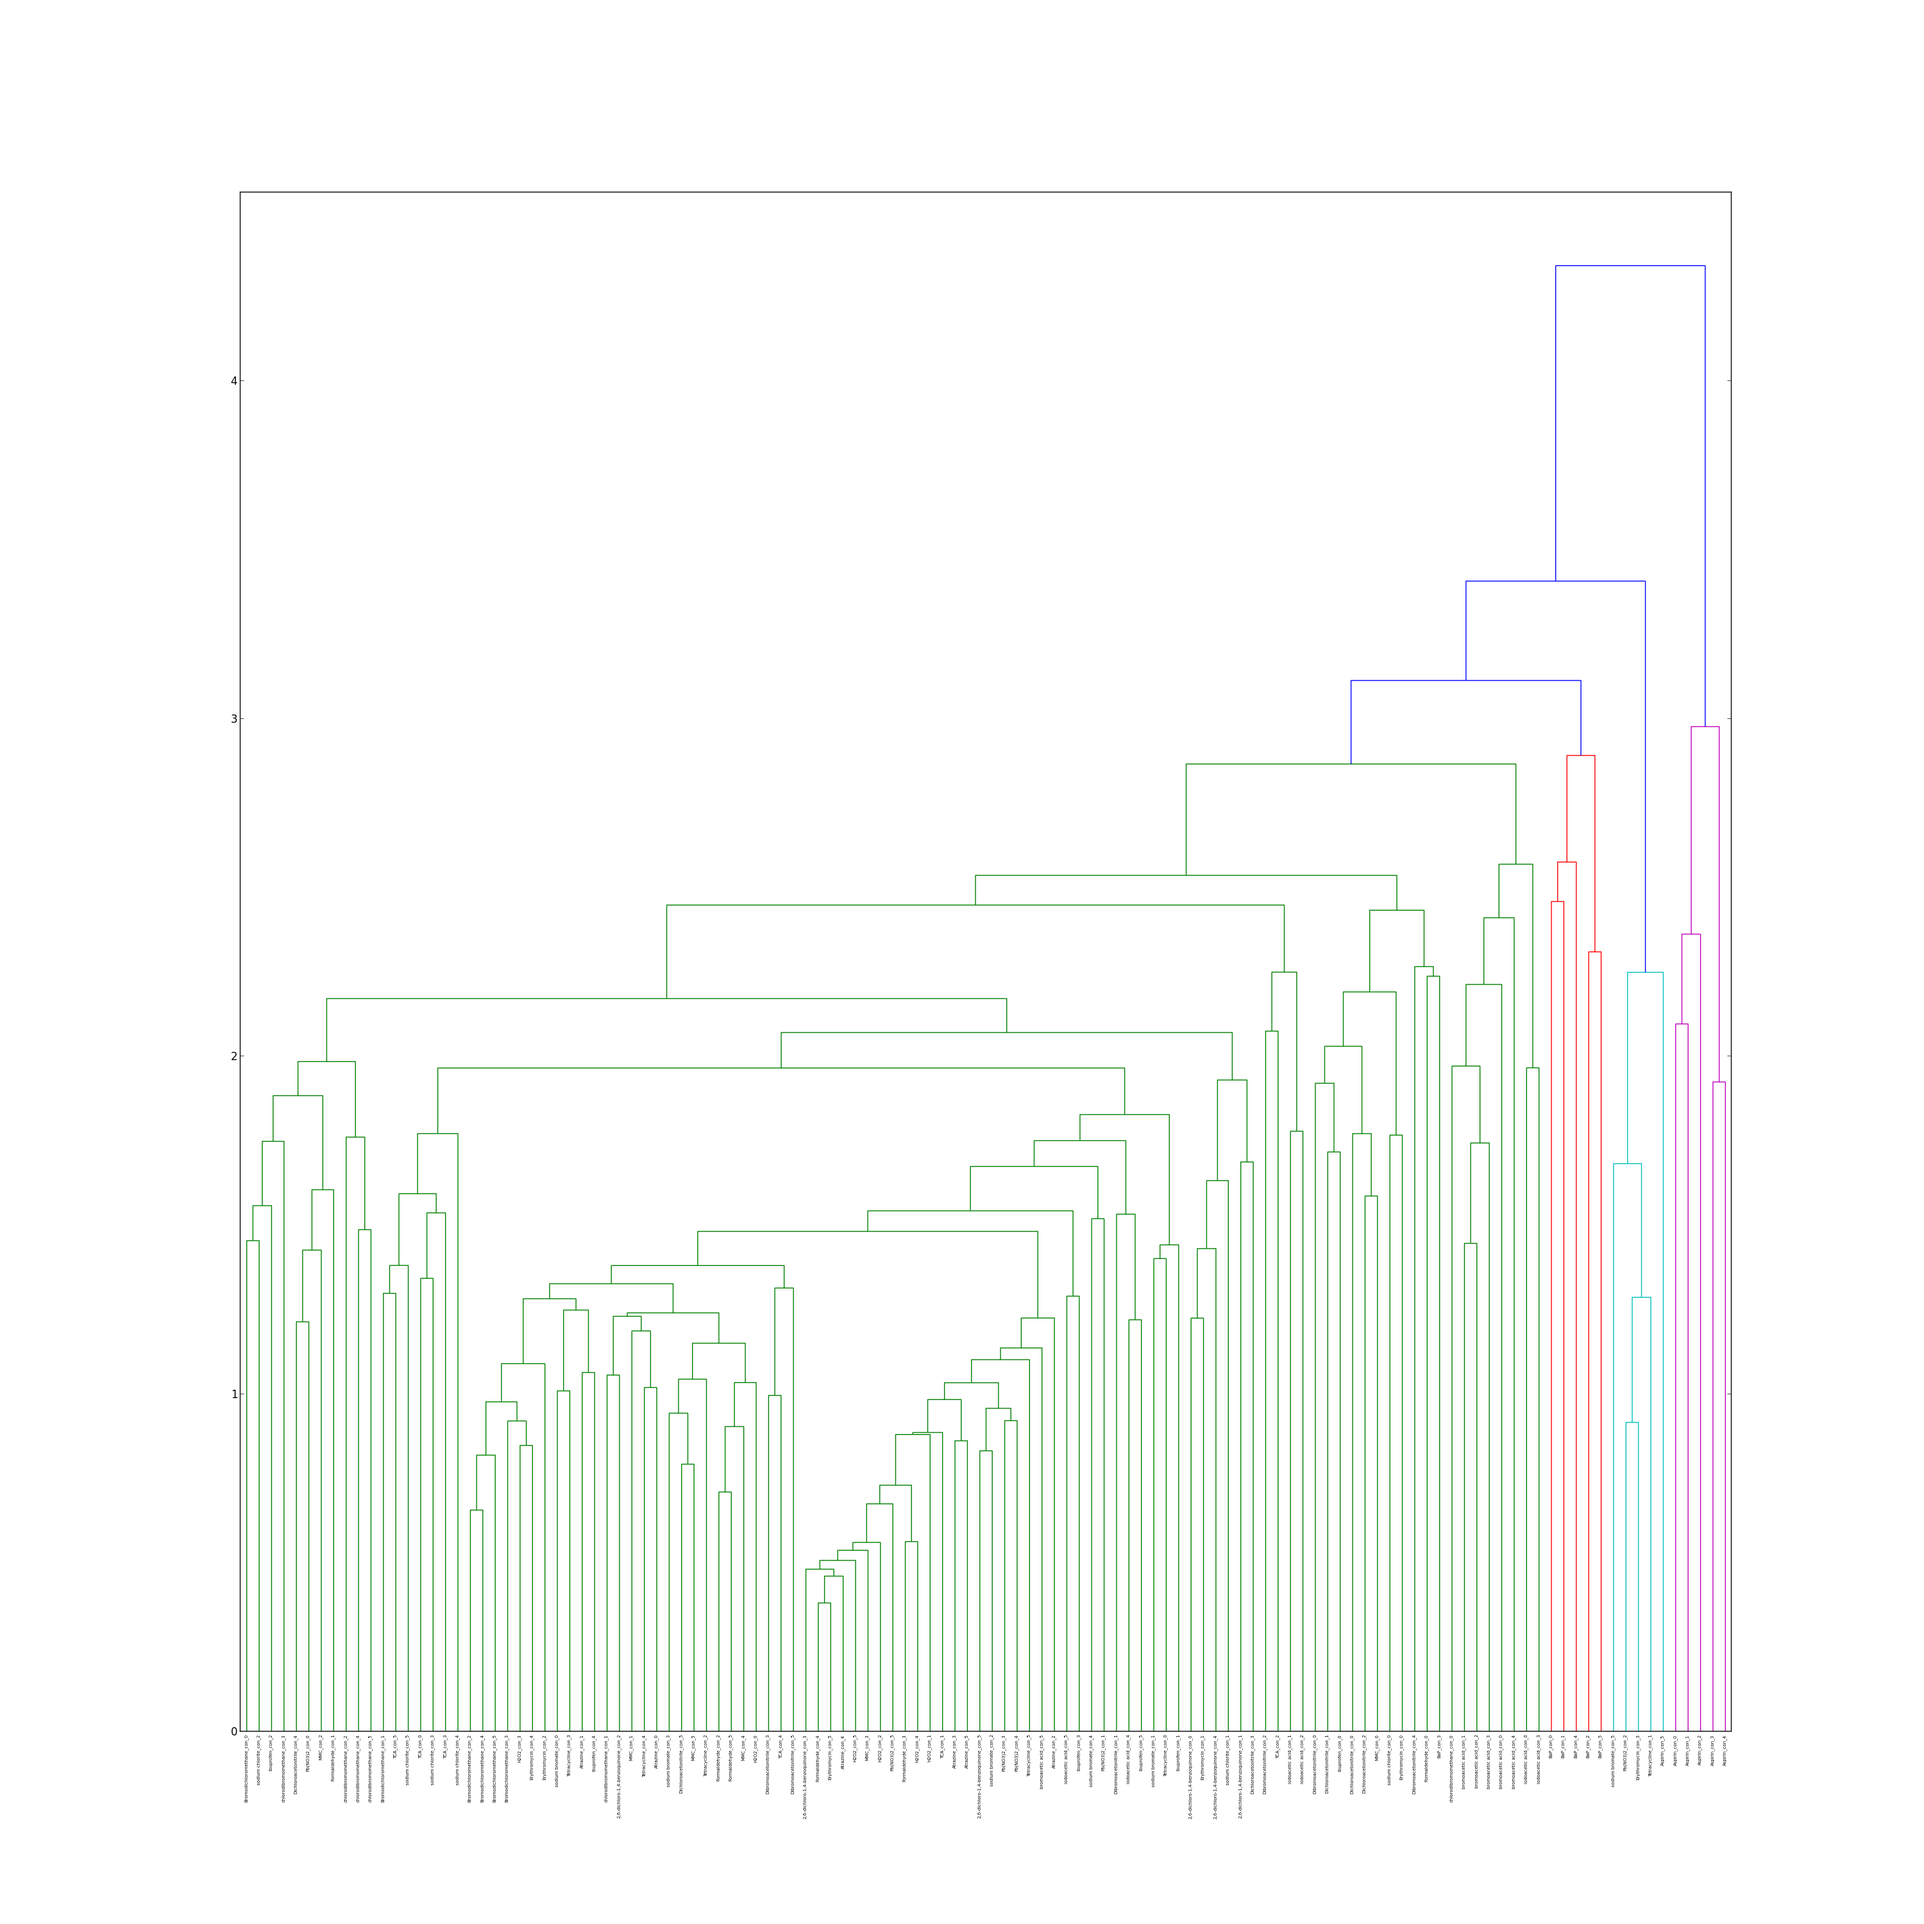
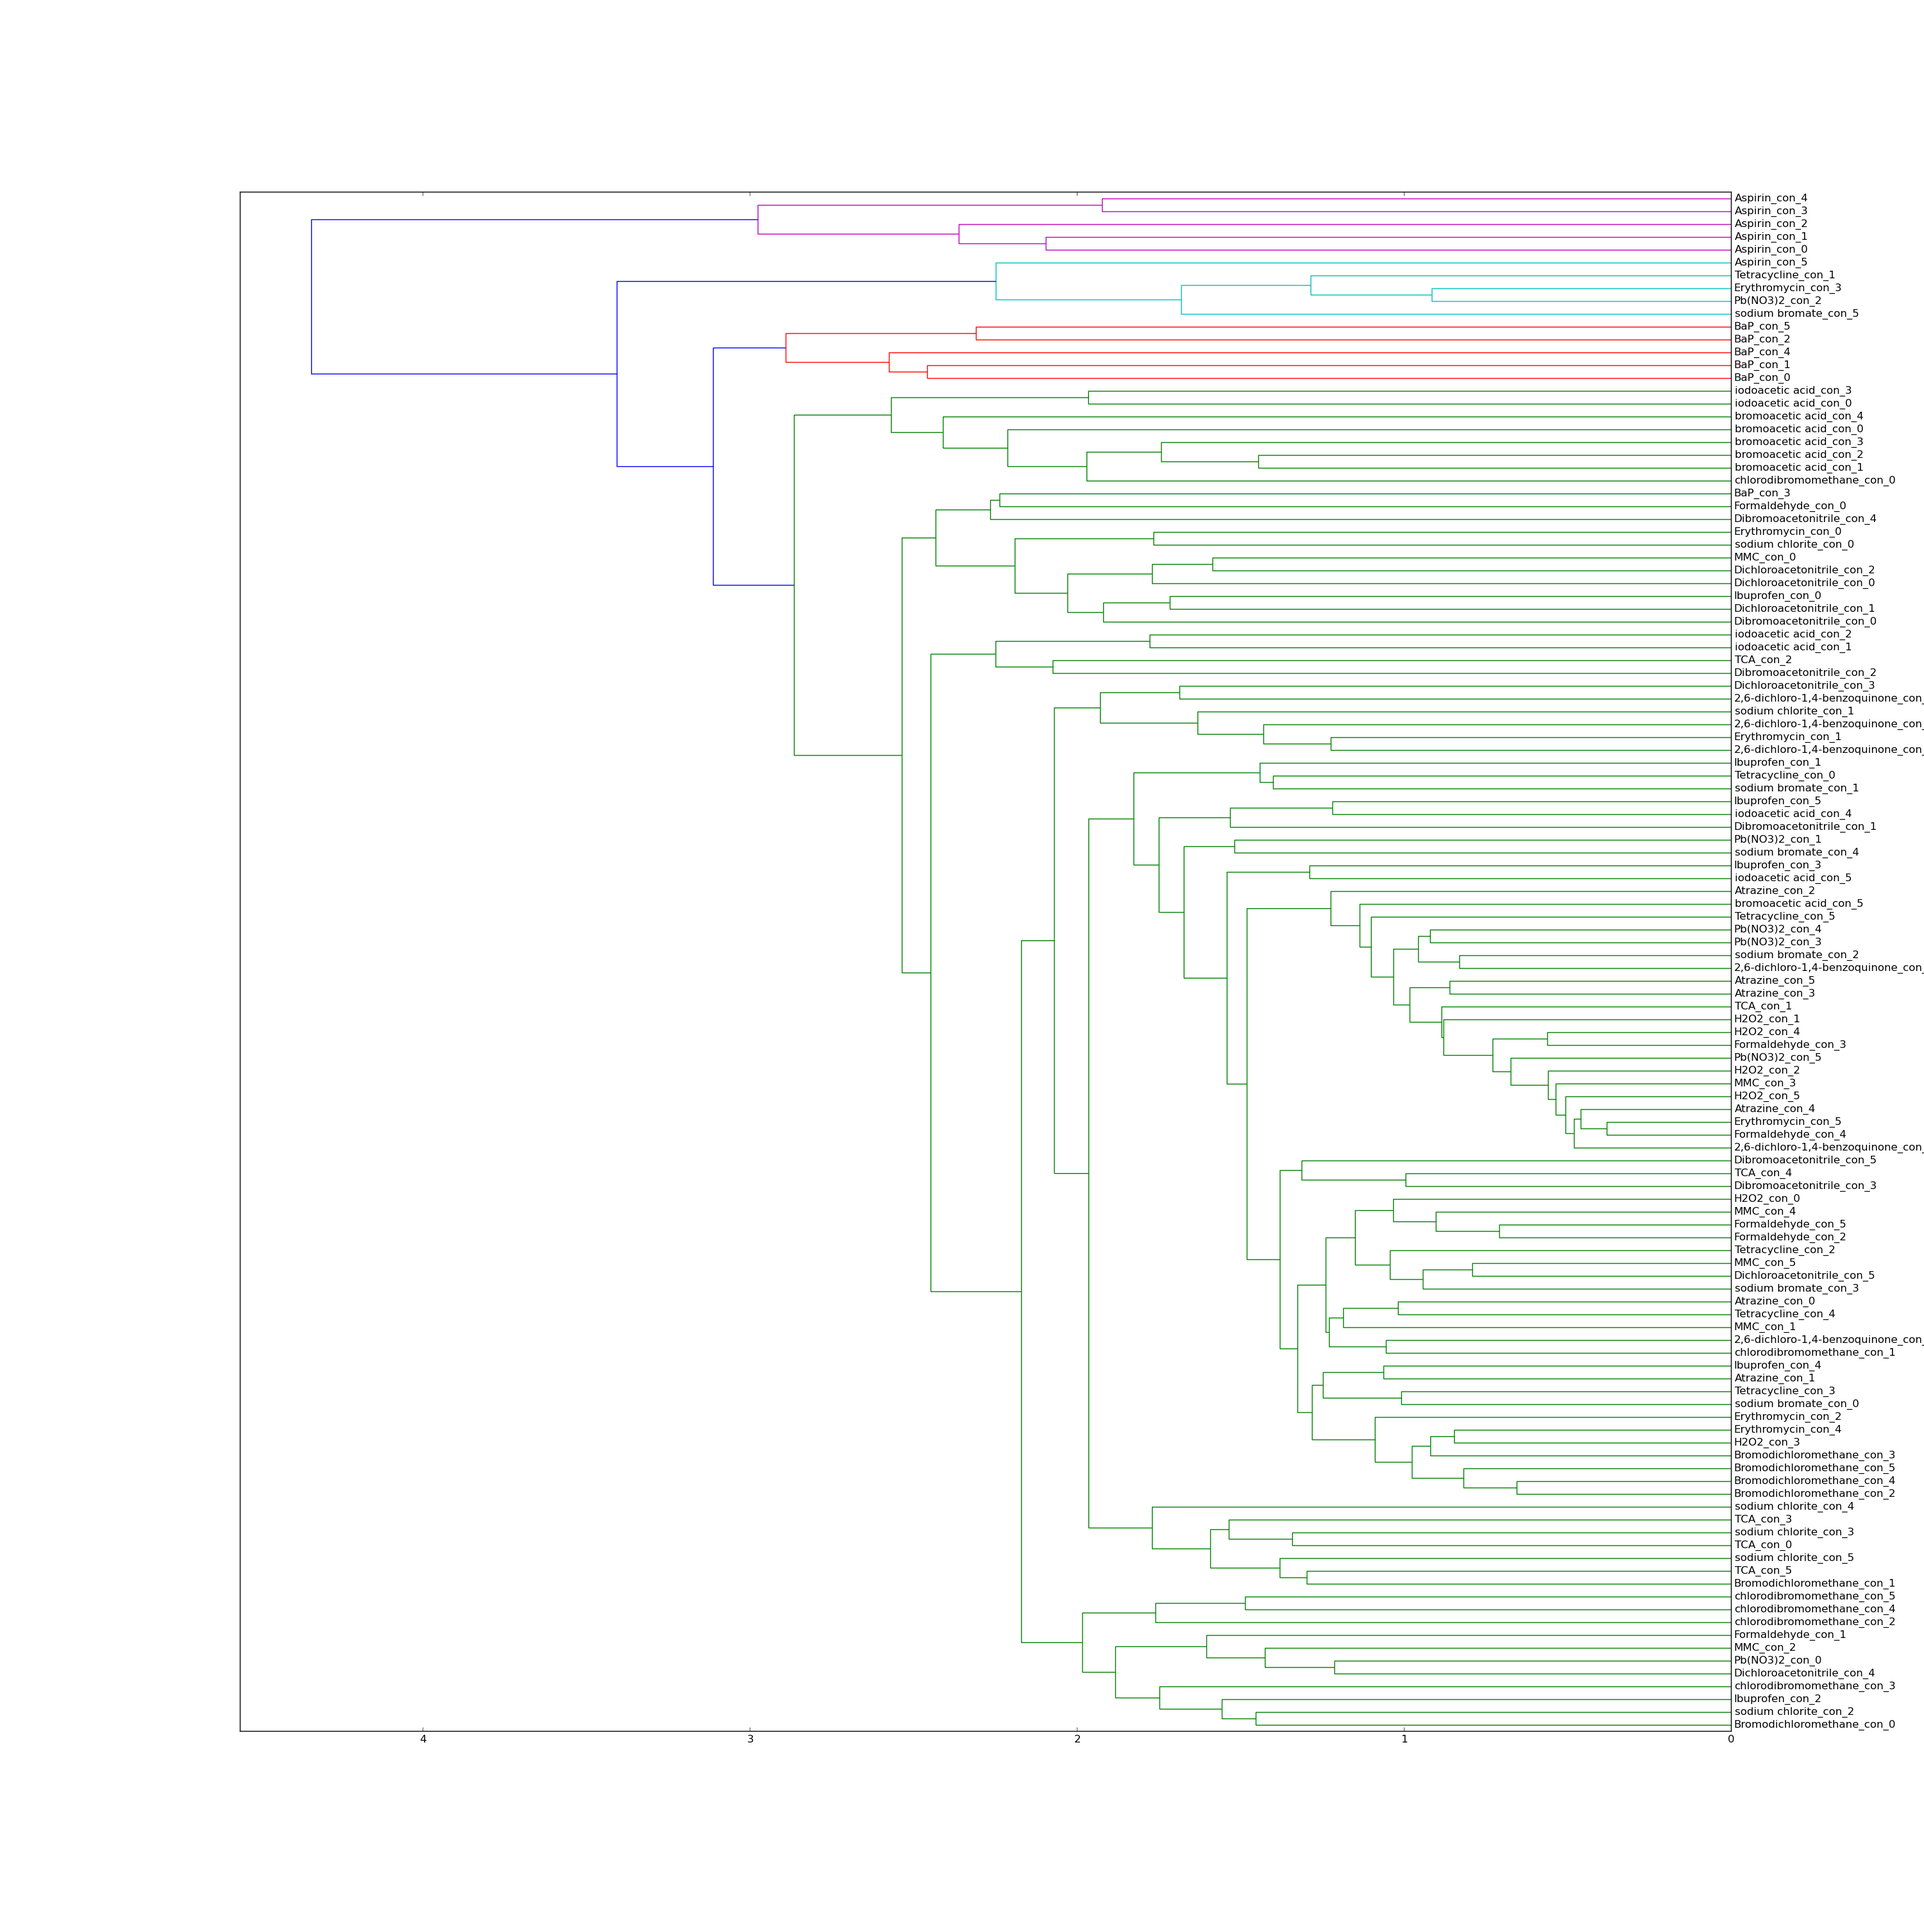
Change Orientation

diff --git a/main_hierarchical.py b/main_hierarchical.py
@@ -88,6 +88,6 @@ for i in range(n_conditions):
 tmp = copy.deepcopy(mtr_lin)
 for i in range(tmp.shape[0]):
     tmp[i,2] = np.max(mtr_dis)-tmp[i,2]
-dend = dendrogram(tmp,labels=labels)
+dend = dendrogram(tmp,labels=labels,orientation='right')
 plt.savefig('dendrogram_hierarchical.png')
 print("The result is stored in dendrogram_hierarchical.png")
